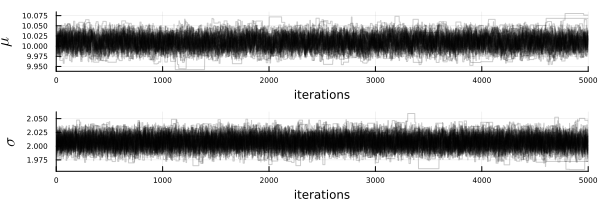
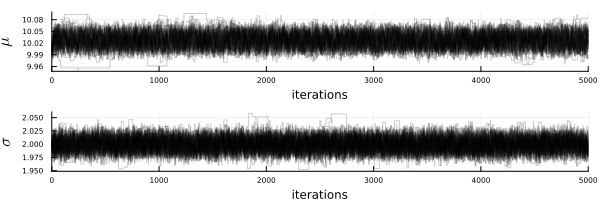
doc

diff --git a/docs/src/index.md b/docs/src/index.md
@@ -3,44 +3,68 @@
 
 *A documentation for the McmcHermes package.*
 
-
-McmcHermes provides a simple but efficient way to generate [Markov Chain Monte-Carlo](https://en.wikipedia.org/wiki/Markov_chain_Monte_Carlo) algorithms in order to sample a probability density distribution.
+McmcHermes is a pure-Julia implementation of [Metropolis Hasting Algorithm](https://en.wikipedia.org/wiki/Metropolis–Hastings_algorithm) under an MIT license. McmcHermes will help you if you want to estimate model parameters or sample a probability density distribution.
 
 ```@contents
 ```
 
-## Overview
-
-The major functions in this module are:
-
-
-run\_mcmc: run multiple chains with a specific number of walkers.
-
-get\_flat\_chain: get the stored chain of MCMC samples.
-
-get\_gelman\_rubin: get the Gelman Rubin convergence diagnostic of the chains. 
-
-
-!!! note
-
-    This guide assumes that you already have define your likelihood, prior and the logarithm of the posterior probability as in the example below.
-
-
-## Pkg Registry
+## Installation
 
 ```julia
 using Pkg
 Pkg.add("McmcHermes")
 ```
 
-## Example
+## Basic Usage
 
-First, let's generate some data:
+!!! note
+
+    This guide assumes that you already have define your likelihood, prior and the logarithm of the posterior probability as in the example below.
+
+
+### Sampling
+
+If you want to draw samples from the following distribution:
+
+$$P(x) = \frac{1}{\sqrt{2 \pi} \sigma_{1}} e^\left[- \frac{(x - \mu_{1})^{2}}{2 \sigma_{1}^{2}}\right] + \frac{1}{\sqrt{2 \pi} \sigma_{2}} e^\left[- \frac{(x - \mu_{2})^{2}}{2 \sigma_{2}^{2}}\right]$$
+
+You would do something like:
 
 ```julia
-using Distributions, Plots, LaTeXStrings, DataFrames, ProgressMeter
+using McmcHermes
 
-mu, sigma = 10, 2
+function pdf(X::Number, params::Vector)
+    s1, s2, mu1, mu2 = params[1], params[2], params[3], params[4]
+    return 1 / (sqrt(2 * pi) * s1) * exp( -0.5*((X - mu1)/s1)^2 ) + 1 / (sqrt(2 * pi) * s2) * exp( -0.5*((X - mu2)/s2)^2 )
+end
+
+function gaussian_function(X::Vector, params::Vector)
+    x_values = collect(range(minimum(X), maximum(X), length=length(X)))
+    s1, s2, mu1, mu2 = params[1], params[2], params[3], params[4]
+    return 0.5 ./ (sqrt(2 * pi) .* s1) .* exp.(-0.5*((x_values .- mu1)./s1).^2) .+ 0.5 ./ (sqrt(2 * pi) .* s2) .* exp.(-0.5*((x_values .- mu2)./s2).^2)
+end
+
+params = [3, 1.5, -5, 5]
+interval = [-20, 20]
+sampling = McmcHermes.sampler(pdf, 10000, interval, params)
+
+x_values = Vector{Float64}(range(interval[1], interval[2], 100))
+
+histogram(sampling, xlabel=L"samples", ylabel=L"p(x)", xguidefontsize=12, color=:gray, yguidefontsize=12, normalize=:pdf, show=true, label="samples")
+plot!(x_values, gaussian_function(x_values, params), lw=3, size=(500,400), label="Function", lc=:orange, show=true)
+```
+
+![samples](./assets/samples.png)
+
+
+### Parameter estimation
+
+To estimate parameters $\mu$ and $\sigma$ from a gaussian distribution. First, you need some data
+
+```julia
+using Distributions, Plots, LaTeXStrings, DataFrames
+
+mu, sigma = 10, 2 # truths
 l_b, u_b = 0, 20
 d = Truncated(Normal(mu, sigma), l_b, u_b)
 N = 1000
@@ -49,10 +73,9 @@ data = rand(d, N)
 histogram(data, legend=false, size=(300,300), xlabel="data", show=true)
 ```
 
-![data](./assets/data.png)
+![data](./assets/hist.png)
 
-In order to sample the posterior probability distribution, it is necessary to define the likelihood, prior and logarithm of the posterior probability.
-
+Now, define likelihood and prior
 
 ```julia
 function log_likelihood(X::Vector, parameters::Vector)
@@ -78,8 +101,7 @@ function log_probability(X::Vector, parameters::Vector)
 end
 ```
 
-Call the McmcHermes package and define the number of walkers, iterations, dimension of the parameter space and the initial guess.
-
+Then, define the number of walkers, iterations, dimension of the parameter space and the initial guess.
 
 ```julia
 using McmcHermes
@@ -87,55 +109,59 @@ using McmcHermes
 mu, sigma = 10, 2
 initparams = Vector{Float64}([mu, sigma])
 
-n_iter, n_walkers = 1000, 100
-n_dim, a = 2, 0.01
+n_iter, n_walkers = 5000, 30
+n_dim = 2
+seed = rand(n_walkers, n_dim) * 1e-4 .+ transpose(initparams)
 
-chain_tests = run_mcmc(log_probability, data, initparams, n_iter, n_walkers, n_dim, a=a)
-println(size(chain_tests))
+chains = McmcHermes.run_mcmc(log_probability, data, seed, n_iter, n_walkers, n_dim, a=0.01)
+println(size(chains))
 ```
-(1000, 100, 2)
+$(5000, 30, 2)$
 
-
-Gelman-Rubin's diagnostic can be obtained from the chains calling the get\_gelman\_rubin method.
-
+The convergence of the chains can be validated by the Gelman-Rubin's diagnostic:
 
 ```julia 
-println("Gelman Rubin Diagnostic: ", get_gelman_rubin(chain_tests))
+println("Gelman Rubin Diagnostic: ", McmcHermes.get_gelman_rubin(chains))
 ```
-Gelman Rubin Diagnostic: 1.0206366055763267
-
+$Gelman Rubin Diagnostic: 1.0206366055763267$
 
 Finally, plot the chains.
 
-
 ```julia
 labels = Tuple([L"\mu", L"\sigma"])
-x = 1:size(chain_tests)[1]
+x = 1:size(chains)[1]
 p = []
 for ind in 1:n_dim
-    push!(p, plot(x, [chain_tests[:,i,ind] for i in 1:size(chain_tests)[2]], legend=false, 
+    push!(p, plot(x, [chains[:,i,ind] for i in 1:size(chains)[2]], legend=false, 
     lc=:black, lw=1, ylabel=labels[ind], alpha = 0.1, xticks=false))
 end
 
 plot(p[1], p[2], layout = (2,1))
-plot!(size=(600,200), xlims = (0, size(chain_tests)[1]), show=true)
+plot!(size=(600,200), xlims = (0, size(chains)[1]), show=true)
 ```
 ![chains](./assets/chains.png)
 
-```julia
-flat_chains = get_flat_chain(chain_tests, burn_in=100, thin=10)
+Chains can also be plotted in a corner. To do so, get the flat chain
 
-flat = DataFrame(flat_chains, :auto)
-colnames = ["mu", "sigma"]
-flat = rename!(flat, Symbol.(colnames))
+```julia
+flat_chains = McmcHermes.get_flat_chain(chains, burn_in=100, thin=10)
+println(size(flat_chains))
+mean_posterior = quantile(flat_chains[:, 1], 0.5)
+std_posterior = quantile(flat_chains[:, 2], 0.5)
 
 using PairPlots, CairoMakie
-pairplot(flat)
+
+table = (; x=flat_chains[:,1], y=flat_chains[:,2],)
+fig = pairplot(table, labels = Dict(:x => L"\mu", :y => L"\sigma"))
 ```
+$(14901, 2)$
+$Posterior mean: 10.027367269323483$
+$Posterior standard deviation: 1.9998453231593405$
+
 ![corner](./assets/corner.png)
 
 
-*Develop by [Steven Alfonso](https://github.com/stevenalfonso).*
+*Develop by [J. Alfonso](https://github.com/stevenalfonso).*
 
 
 ```@index

diff --git a/README.md b/README.md
@@ -4,23 +4,9 @@
 
 # McmcHermes.jl
 
+![samples](./docs/src/assets/logo.png)
 
-*A documentation for the McmcHermes package.*
-
-
-McmcHermes provides a simple but efficient way to generate [Markov Chain Monte-Carlo](https://en.wikipedia.org/wiki/Markov_chain_Monte_Carlo) algorithms in order to sample probability density distributions.
-
-
-## Overview
-
-The major functions in this module are:
-
-run_mcmc: run multiple chains with a specific number of walkers.
-
-get\_flat\_chain: get the stored chain of MCMC samples.
-
-gelman\_rubin\_diagnostic: get the Gelman Rubin convergence diagnostic of the chains. 
-
+McmcHermes is a pure-Julia implementation of [Metropolis Hasting Algorithm](https://en.wikipedia.org/wiki/Metropolis–Hastings_algorithm) under an MIT license. McmcHermes will help you if you want to estimate model parameters or sample a probability density distribution.
 
 
 ## Installation
@@ -30,131 +16,5 @@ using Pkg
 Pkg.add("McmcHermes")
 ```
 
-## Example
 
-### Run mcmc
-
-First, let's generate some data:
-
-```julia
-using Distributions, LaTeXStrings, Plots
-
-mu, sigma = 10, 2
-l_b, u_b = 0, 20
-d = Truncated(Normal(mu, sigma), l_b, u_b)
-N = 10000
-data = rand(d, N)
-
-histogram(data, legend=false, size=(300,300), xlabel="data", show=true)
-```
-
-![data](./docs/src/assets/hist.png)
-
-Then, we define the Gaussian likelihood and an uniform prior:
-
-```julia
-function log_likelihood(X::Vector, parameters::Vector)
-    mu, sigma = parameters[1], parameters[2]
-    y = 1 ./ (sqrt(2 * pi) .* sigma) .* exp.( -0.5 * ((X .- mu)./sigma).^2 )
-    return sum(log.(y))
-end
-
-function log_prior(parameters::Vector)
-    mu, sigma = parameters[1], parameters[2]
-    if 5.0 < mu < 15.0 && 0.0 < sigma < 5.0
-        return 0.0
-    end
-    return -Inf
-end
-
-function log_probability(X::Vector, parameters::Vector)
-    lp = log_prior(parameters)
-    if !isfinite(lp)
-        return -Inf
-    end
-    return lp + log_likelihood(X, parameters)
-end
-```
-
-The parameters are $\mu$ and $\sigma$. To run mcmc and sample the posterior probability function we call the McmcHermes packages. Let's define the number of walkers and iterations
-
-```julia
-using McmcHermes
-
-mu, sigma = 10, 2
-initparams = Vector{Float64}([mu, sigma])
-
-n_iter, n_walkers = 5000, 30
-n_dim = 2
-seed = rand(n_walkers, n_dim) * 1e-4 .+ transpose(initparams)
-
-chains = McmcHermes.run_mcmc(log_probability, data, seed, n_iter, n_walkers, n_dim, a=0.01)
-println(size(chains))
-```
-(5000, 30, 2)
-
-Gelman-Rubin's diagnostic of chains can be obtained calling the gelman\_rubin\_diagnostic method.
-```julia 
-println("Gelman Rubin Diagnostic: ", McmcHermes.gelman_rubin_diagnostic(chains))
-```
-Gelman Rubin Diagnostic: 1.0231750328396079
-
-Plot the chains
-
-```julia
-labels = Tuple([L"\mu", L"\sigma"])
-x = 1:size(chains)[1]
-p = []
-for ind in 1:n_dim
-    push!(p, plot(x, [chains[:,i,ind] for i in 1:size(chains)[2]], legend=false, lc=:black, lw=1, ylabel=labels[ind], alpha=0.2, xticks=true))
-end
-
-plot(p[1], p[2], layout=(2,1), xlabel="iterations", tickfontsize=5, xguidefontsize=8)
-plot!(size=(600,200), xlims=(0, size(chains)[1]), show=true, lw=1)
-```
-![chains](./docs/src/assets/chains.png)
-
-Chains can also be plotted in a corner. To do so, first get the flat chain
-
-```julia
-flat_chains = McmcHermes.get_flat_chain(chains, burn_in=100, thin=10)
-
-using PairPlots, CairoMakie
-
-table = (; x=flat_chains[:,1], y=flat_chains[:,2],)
-fig = pairplot(table, labels = Dict(:x => L"\mu", :y => L"\sigma"))
-```
-![corner](./docs/src/assets/corner.png)
-
-### Get samples from a distribution (New)
-
-If you want to draw samples from the following distribution
-
-$$\frac{1}{\sqrt{2 \pi} \sigma_{1}} e^\left[- \frac{(x - \mu_{1})^{2}}{2 \sigma_{1}^{2}}\right]$$
-
-You would do something like:
-
-```julia
-function pdf(X::Number, params::Vector)
-    s1, s2, mu1, mu2 = params[1], params[2], params[3], params[4]
-    return 1 / (sqrt(2 * pi) * s1) * exp( -0.5*((X - mu1)/s1)^2 ) + 1 / (sqrt(2 * pi) * s2) * exp( -0.5*((X - mu2)/s2)^2 )
-end
-
-function gaussian_function(X::Vector, params::Vector)
-    x_values = collect(range(minimum(X), maximum(X), length=length(X)))
-    s1, s2, mu1, mu2 = params[1], params[2], params[3], params[4]
-    return 0.5 ./ (sqrt(2 * pi) .* s1) .* exp.(-0.5*((x_values .- mu1)./s1).^2) .+ 0.5 ./ (sqrt(2 * pi) .* s2) .* exp.(-0.5*((x_values .- mu2)./s2).^2)
-end
-
-params = [3, 1.5, -5, 5]
-interval = [-20, 20]
-sampling = McmcHermes.sampler(pdf, 10000, interval, params)
-
-x_values = Vector{Float64}(range(interval[1], interval[2], 100))
-
-histogram(sampling, xlabel=L"samples", ylabel=L"p(x)", xguidefontsize=12, color=:gray, yguidefontsize=12, normalize=:pdf, show=true, label="samples")
-plot!(x_values, gaussian_function(x_values, params), lw=3, size=(500,400), label="Function", lc=:orange, show=true)
-```
-![samples](./docs/src/assets/samples.png)
-
-See here the [documentation](https://stevenalfonso.github.io/McmcHermes.jl/dev/).
+Here is the [documentation](https://stevenalfonso.github.io/McmcHermes.jl/dev/).
